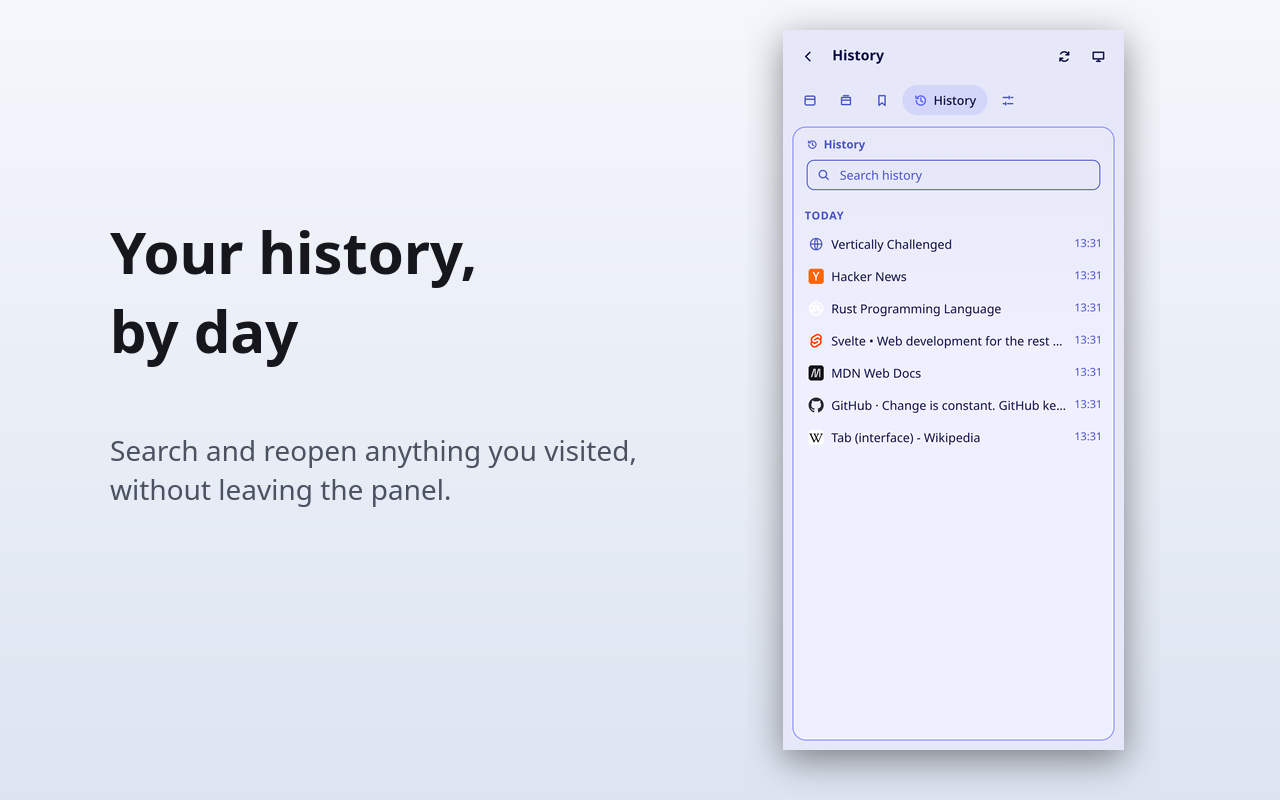
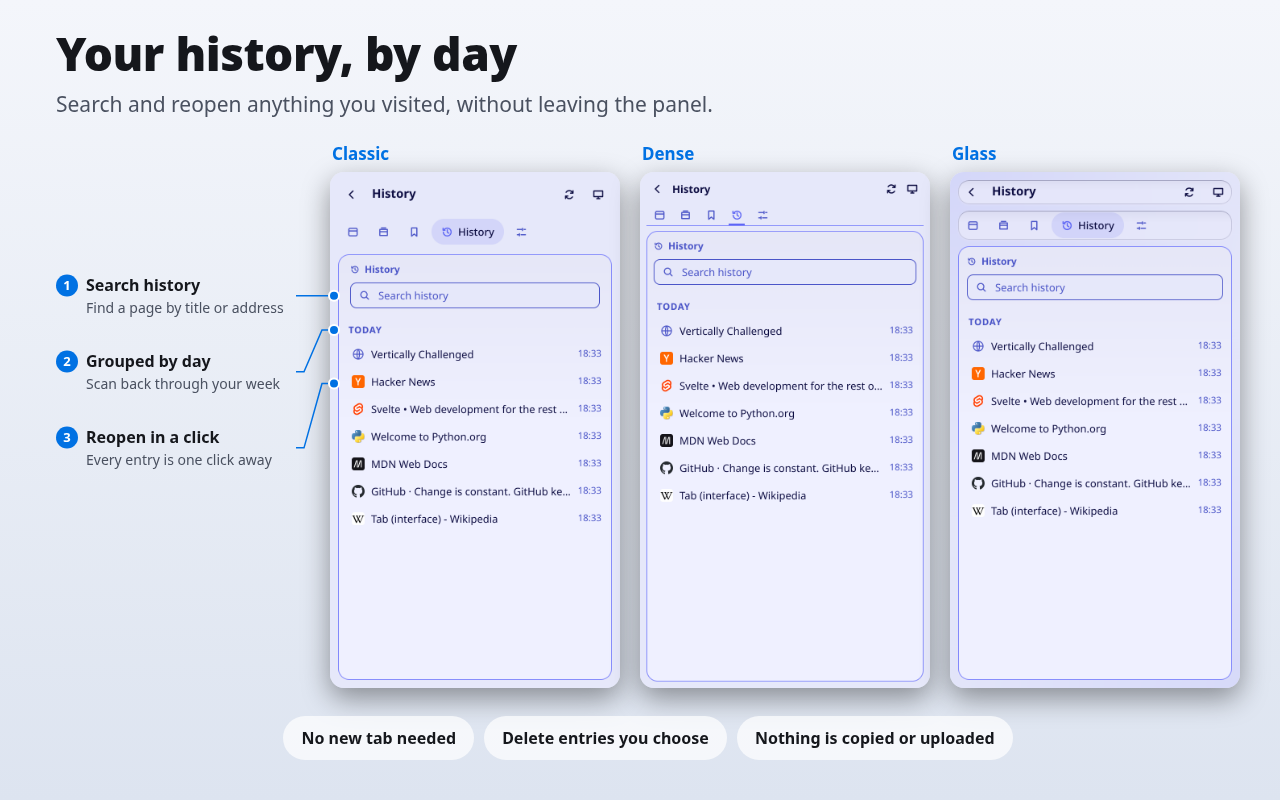
docs(store): refresh listing copy and screenshots (#16)
* docs(store): refresh listing copy and screenshots

Add real search and command palette screenshots, and format the Chrome
and AMO descriptions into sections. The old search image showed no search.

* docs(store): show all three styles in each store image

Lay out Classic, Dense and Glass side by side across four images, with
the caption on top. Drop the commands image.

* docs(store): add callout infographics and use Markdown on AMO

Rebuild the store images with numbered callouts and fact strips across
all three styles, rendered with Playwright. AMO shows HTML descriptions
as literal text, so the description is now Markdown.

* fix(sidepanel): drop the Glass inner box in the history and bookmarks search

The Glass rule for .search input also hit the history and bookmarks inputs,
whose wrapper is the field, drawing a second box inside it.

* docs(store): regenerate store images with the Glass search fix

Swap rust-lang.org for python.org in the screenshot tabs; its new favicon is white and vanishes on light themes.

---------

diff --git a/docs/store/LISTING.md b/docs/store/LISTING.md
@@ -6,7 +6,7 @@
 
 **Everything the store form asks for, and the steps to a published listing.**
 
-The images in this folder are built by `node scripts/store-assets.mjs` from the README screenshots.
+The images in this folder are built by `node scripts/store-assets.mjs` from the screenshots `tests/e2e/shots.mjs` takes.
 
 [![Chrome Web Store](https://img.shields.io/badge/Chrome_Web_Store-submit-0071e3?logo=googlechrome&logoColor=white&labelColor=1d1d1f)](https://chrome.google.com/webstore/devconsole)
 [![Firefox](https://img.shields.io/badge/Firefox-AMO.md-0071e3?logo=firefoxbrowser&logoColor=white&labelColor=1d1d1f)](AMO.md)
@@ -77,6 +77,8 @@ Vertical tabs in Chrome's side panel: search, pin, group, snooze and back up. Lo
 ```
 
 ## Detailed description
+
+The store shows this as plain text, so sections and bullets use characters, not Markdown.
 
 ```text
 🗂 Every tab in every window, in one searchable vertical list. Free, open source and local-first.

diff --git a/docs/store/AMO.md b/docs/store/AMO.md
@@ -84,7 +84,7 @@ Local-first, no tracking, free and open source.
 
 **Support site:** <https://github.com/humdedum1/vertically-challenged/issues>
 
-**Description:** see `description` in `amo-metadata.json`.
+**Description:** see `description` in `amo-metadata.json`. AMO renders it as limited Markdown (bold, italics, links, lists, blockquotes), and any HTML shows up as literal text.
 
 ## What differs from the Chrome listing
 
